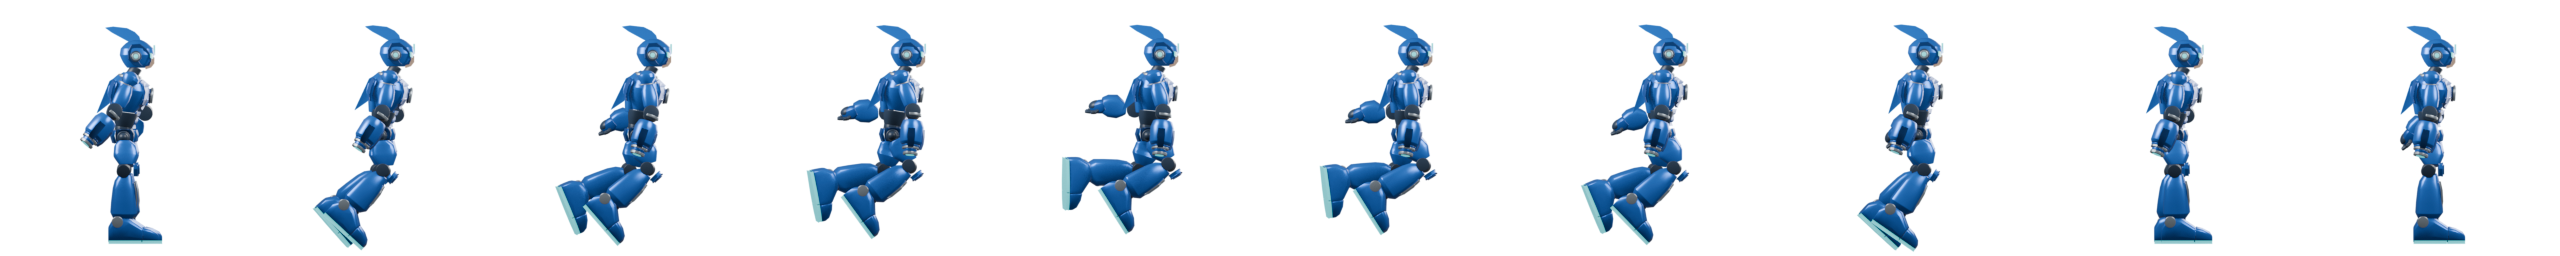
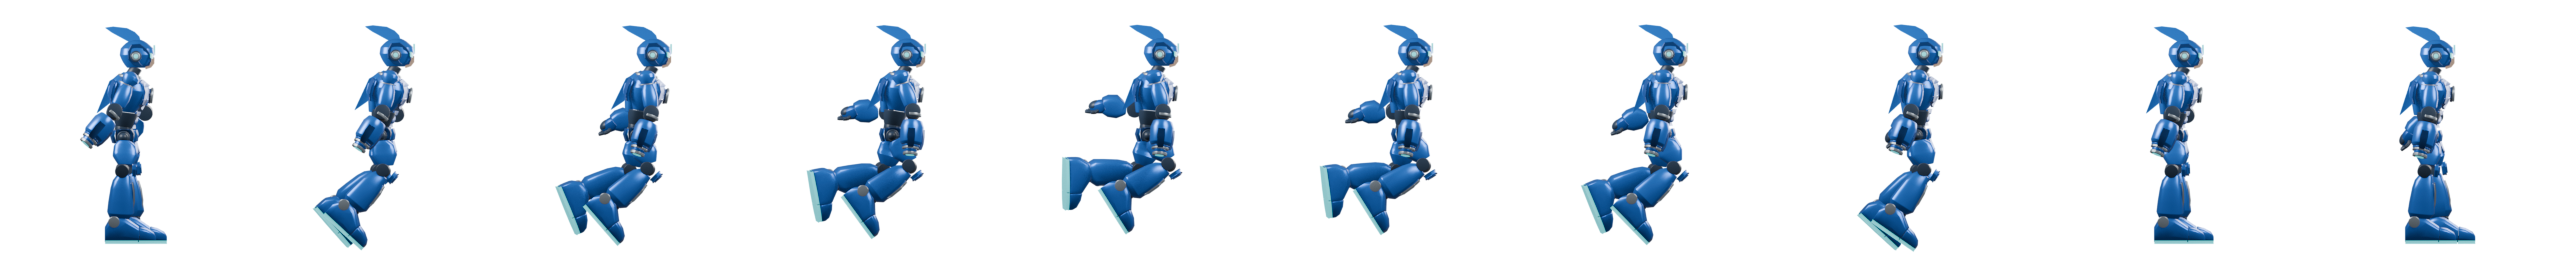
[claude] char: combat-ready idle stance
User direction: the neutral standing pose must read as battle-ready, not
standing at attention. New idle: wide staggered feet, slight sink
(collision-bounded), 10.5-degree trunk lean, buster half-raised toward
the aim line with the muzzle visible, free arm coiled behind like the
run back-swing, breathing sway. Jump grounded keys follow the stance and
the settle key now equals idle frame 0 exactly (jump_idle_endpoint 0).
Measured model limit: dual-leg IK vertical crouch collides KneeCap into
ThighFrontPlate beyond a 0.07 drop (IK thigh roll; FK stays clean), so
stance depth stays at 0.058. PLAYER3D_MUZZLE regenerated; strips whose
pixels did not change were restored from HEAD. ASSET_VER=2026071803.
Not deployed.

diff --git a/index.html b/index.html
@@ -167,7 +167,7 @@ function manageBgm(){            // 毎フレーム呼ぶ（状態に応じてBG
 // 各エンティティ＝{fw,fh,scale,ax,ay, anims:{name:{src,frames,fps}}}。
 // anim毎に1枚の横ストリップPNG（コマを横一列）。素材配置後にここを記述する。
 // ★キャッシュ無効化: 素材PNGを差し替えたら ASSET_VER を変えると、ブラウザ/CDNが必ず新素材を取得する。
-const ASSET_VER = '2026071802';
+const ASSET_VER = '2026071803';
 function _av(s){ return s + (s.indexOf('?')<0 ? '?v=' : '&v=') + ASSET_VER; }
 const ASSETS = {
   // 現在のBlender全身リグを、ローカル実機テスト用にそのまま書き出した3Dレンダー。
@@ -975,7 +975,7 @@ const RUN_CYCLE_DISTANCE=64;
 const HERO3D_ENABLED=!(typeof globalThis!=='undefined' && globalThis.location &&
   /(?:^|[?&])hero=legacy(?:&|$)/.test(globalThis.location.search||''));
 // export_game_sprites.py が同じレンダーから生成する砲口座標。実データは素材検査後に埋め込む。
-const PLAYER3D_MUZZLE={"idle":[[136.1074,157.7219],[136.04,157.6992],[135.9771,157.678],[135.9231,157.6596],[135.8816,157.6455],[135.8556,157.6367],[135.8467,157.6336],[135.8556,157.6367],[135.8816,157.6455],[135.9231,157.6596],[135.9771,157.678],[136.04,157.6992],[136.1074,157.7219],[136.1749,157.7445],[136.2377,157.7654],[136.2915,157.7834],[136.3329,157.7971],[136.3589,157.8057],[136.3678,157.8086],[136.3589,157.8057],[136.3329,157.7971],[136.2915,157.7834],[136.2377,157.7654],[136.1749,157.7445]],"shoot":[[200.9185,94.4645],[196.4451,99.1412],[198.536,96.9883],[200.0745,95.3919],[200.9185,94.4645],[200.9185,94.4645],[200.9185,94.4645],[200.9185,94.4645]],"charge":[[200.9762,100.7273],[201.0196,100.9625],[201.051,101.1348],[201.0624,101.1979],[201.051,101.1348],[201.0196,100.9625],[200.9762,100.7273],[200.932,100.4922],[200.8993,100.3202],[200.8872,100.2573],[200.8993,100.3202],[200.932,100.4922]],"run":[[75.1812,79.9164],[69.4708,82.3625],[67.2168,90.0096],[74.231,95.2335],[79.3487,107.1011],[87.9439,117.9717],[99.2358,126.4524],[111.1806,135.7271],[121.4018,142.8919],[128.0711,147.1649],[134.9247,151.2866],[126.0511,151.3265],[116.0363,150.1242],[110.6719,139.9523],[99.0736,130.9361],[87.9439,117.9717],[79.0261,103.0269],[73.2755,92.2417],[70.6015,84.4303],[70.0659,79.376]],"runshoot":[[225.086,100.1642],[219.0597,100.7589],[216.0679,101.5704],[220.7731,95.7594],[220.6192,94.1312],[220.3699,91.5261],[220.12,88.9224],[219.9654,90.7515],[219.9653,93.8926],[220.12,96.461],[225.0766,100.1642],[219.0377,100.7589],[216.0554,101.5704],[220.7731,95.7594],[220.6192,94.1312],[220.3699,91.5261],[220.12,88.9224],[219.9654,90.7515],[219.9653,93.8926],[220.12,96.461]],"runcharge":[[224.3617,102.8414],[218.3356,103.4362],[215.3438,104.2477],[220.049,98.4366],[219.8951,96.8085],[219.6456,94.2034],[219.3957,91.5996],[219.241,93.4287],[219.241,96.5698],[219.3957,99.1382],[224.3523,102.8414],[218.3136,103.4362],[215.3313,104.2477],[220.049,98.4366],[219.8951,96.8085],[219.6456,94.2034],[219.3957,91.5996],[219.241,93.4287],[219.241,96.5698],[219.3957,99.1382]],"jump":[[85.5049,144.0227],[102.0391,149.1371],[124.8352,154.7089],[141.9381,154.9372],[135.3369,155.3253],[125.3617,155.592],[114.8804,154.8533],[103.0518,152.4178],[108.6454,154.5063],[116.413,156.4326]],"jumpshoot":[[204.2118,97.0609],[205.1541,95.3334],[205.1541,95.3334],[205.1541,95.3334],[205.1541,95.3334],[205.1541,95.3334],[205.1541,95.3334],[205.1541,95.3334],[205.7823,96.9039],[205.1541,96.5898]]};
+const PLAYER3D_MUZZLE={"idle":[[179.0889,145.3695],[178.2556,145.9871],[177.4705,146.5497],[176.7897,147.0228],[176.2633,147.3795],[175.9307,147.6009],[175.8169,147.6759],[175.9307,147.6009],[176.2633,147.3795],[176.7897,147.0228],[177.4705,146.5497],[178.2556,145.9871],[179.0889,145.3695],[179.9122,144.7376],[180.6704,144.1362],[181.3143,143.6102],[181.8038,143.2006],[182.1095,142.9404],[182.2134,142.8513],[182.1095,142.9404],[181.8038,143.2006],[181.3143,143.6102],[180.6704,144.1362],[179.9122,144.7376]],"shoot":[[200.9185,94.4645],[196.4451,99.1412],[198.536,96.9883],[200.0745,95.3919],[200.9185,94.4645],[200.9185,94.4645],[200.9185,94.4645],[200.9185,94.4645]],"charge":[[200.9762,100.7273],[201.0196,100.9625],[201.051,101.1348],[201.0624,101.1979],[201.051,101.1348],[201.0196,100.9625],[200.9762,100.7273],[200.932,100.4922],[200.8993,100.3202],[200.8872,100.2573],[200.8993,100.3202],[200.932,100.4922]],"run":[[75.1812,79.9164],[69.4708,82.3625],[67.2168,90.0096],[74.231,95.2335],[79.3487,107.1011],[87.9439,117.9717],[99.2358,126.4524],[111.1806,135.7271],[121.4018,142.8919],[128.0711,147.1649],[134.9247,151.2866],[126.0511,151.3265],[116.0363,150.1242],[110.6719,139.9523],[99.0736,130.9361],[87.9439,117.9717],[79.0261,103.0269],[73.2755,92.2417],[70.6015,84.4303],[70.0659,79.376]],"runshoot":[[225.086,100.1642],[219.0597,100.7589],[216.0679,101.5704],[220.7731,95.7594],[220.6192,94.1312],[220.3699,91.5261],[220.12,88.9224],[219.9654,90.7515],[219.9653,93.8926],[220.12,96.461],[225.0766,100.1642],[219.0377,100.7589],[216.0554,101.5704],[220.7731,95.7594],[220.6192,94.1312],[220.3699,91.5261],[220.12,88.9224],[219.9654,90.7515],[219.9653,93.8926],[220.12,96.461]],"runcharge":[[224.3617,102.8414],[218.3356,103.4362],[215.3438,104.2477],[220.049,98.4366],[219.8951,96.8085],[219.6456,94.2034],[219.3957,91.5996],[219.241,93.4287],[219.241,96.5698],[219.3957,99.1382],[224.3523,102.8414],[218.3136,103.4362],[215.3313,104.2477],[220.049,98.4366],[219.8951,96.8085],[219.6456,94.2034],[219.3957,91.5996],[219.241,93.4287],[219.241,96.5698],[219.3957,99.1382]],"jump":[[85.5049,144.0227],[102.0391,149.1371],[124.8352,154.7089],[141.9381,154.9372],[135.3369,155.3253],[125.3617,155.592],[114.8804,154.8533],[103.0518,152.4178],[108.6454,154.5063],[115.4707,156.998]],"jumpshoot":[[204.2118,97.0609],[205.1541,95.3334],[205.1541,95.3334],[205.1541,95.3334],[205.1541,95.3334],[205.1541,95.3334],[205.1541,95.3334],[205.1541,95.3334],[205.7823,96.9039],[204.2118,97.1552]]};
 let playerRenderInfo={source:'none',anim:null,frame:null,chargeOverlay:false};
 
 function player3DRunFrame(distance){

diff --git a/HANDOFF.md b/HANDOFF.md
@@ -1,5 +1,17 @@
 # HANDOFF — Claude ↔ Codex 協働ログ（新しい順に上へ追記）
 
+## 2026-07-18 — [claude] combat-idle: 待機を「気をつけ」から戦闘構えへ（ローカル反映・デプロイ待ち）
+- ユーザー指示: 「通常の立ち姿もまっすぐ立ってるんじゃなくて、戦うために構えてるポーズにする」＋「レンダリング済みモデルが使われているか」の確認。
+- 使用状況の回答: 8モーション全て（idle/shoot/charge/run/runshoot/runcharge/jump/jumpshoot）が `player3d_*.png`（Blenderレンダー）を本番経路で使用中（`resolvePlayer3DVisual`→`source=player3d` を実機確認）。例外は被弾のみ＝3D未制作でidle点滅表示（旧 `player_hurt.png` はフォールバック専用）。
+- 新idle（`apply_idle_frame`）: 広いスタッガー（R -0.28 / L +0.34）＋浅い沈み（pelvis -0.058±0.004）＋体幹前傾10.5°＋頭部追従。腕は**バスター半構え**（肩-45/肘10＝照準ラインへワンスナップ・砲口が前方に見える）＋**自由腕は走りの後方スイングと同じ後方コイル**（肩+35/肘70）。呼吸で骨盤・腕が微動。
+- **模型の可動限界を計測で発見（重要・再利用知見）**: 両脚IKの垂直しゃがみは **drop 0.07 で KneeCap↔ThighFrontPlate が新規衝突**（FKなら膝50°曲げてもクリーン＝IKソルバが大腿に入れるロール成分が原因）。深いしゃがみ待機はモデル改修なしでは不可 → 構えの読みはスタッガー幅・前傾・ガード腕で担保する設計にした。プローブ手順は session scratchpad の sweep スクリプト（tune_idle_crouch / probe_knee / probe_final）方式で再現可能。
+- `JUMP_KEYS` 接地キーを新スタンスへ追随: launch feet (-0.16,0.20)・impact (-0.12,0.16)・**settle = idle f0 と完全一致**（audit の jump_idle_endpoint ゲート、実測 delta 0 で通過）。
+- `ASSET_VER='2026071803'`。`PLAYER3D_MUZZLE` を新 anchors から再生成（idle砲口が半構え位置 [179,145] へ移動）。再レンダーで画素が変わらなかった run系/charge/shoot ストリップは HEAD へ戻しコミットを実変更のみに限定。
+- 検証: audit 124frames/新規・悪化衝突0/不変条件0、validate_game_sprites 8/124 OK、validate_motion_readability 0、player3dcheck 43/43、posecheck 48/48、harness 30/30。実機Chrome（`?v=2026071803`）で idle=戦闘構え表示・`source=player3d`・console error 0。
+- 退避: `blender/hero/archive/20260718-pre-combat-idle/`（変更前HEAD=7e5b194）。
+- 公開: **未デプロイ**（走り改修と合わせてユーザー承認後に push）。
+- 次: ユーザー実操作評価。任意の追随候補=(a) stand_shoot/charge の足幅（brace 0.12/0.16）を新idleの広さへ寄せて遷移の足移動を減らす (b) 3D hurt モーション制作（現状はidle点滅代用）。
+
 ## 2026-07-18 — [claude] run-athletic: 骨盤込み9°前傾＋両腕ポンプで「直立走り」を全面解消（ローカル反映・デプロイ待ち）
 - ユーザー再指摘（run-lean 2026071801 でも不足）: 「ポーズが直立のまま走って不自然。両手をしっかり振る・前傾する・レンダリング用に決めたパーツが活かされていない」。
 - 診断: (a) 骨盤が並進のみで無回転＝体幹基部と骨盤シェルが常に垂直 (b) `DEF_head` -45%逆補正でヘルメット（シルエットの1/3）がほぼ垂直 (c) 前振り側の肘が伸展（バスター肘14°）＝拳が腰より上がらず「垂れ腕」読み。spine単独増量は腹部↔骨盤衝突の物理上限14.5°で不可能＝構造変更が必須だった。
